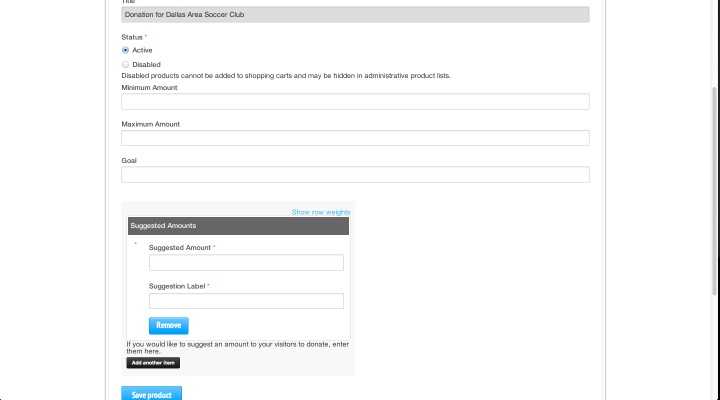
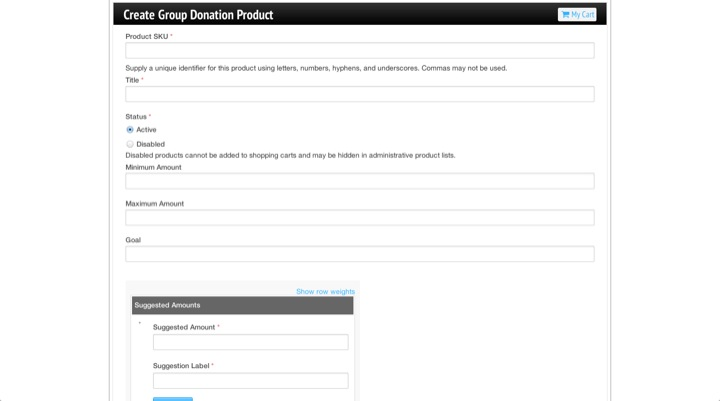
[#73992352] Updates the 1-group-admin-guide/06-accept-donations.html page on the knowledge base.

diff --git a/knowledge-base/group-admin-knowledge/pages/1-group-admin-guide/06-accept-donations.html b/knowledge-base/group-admin-knowledge/pages/1-group-admin-guide/06-accept-donations.html
@@ -87,31 +87,43 @@ user_help_videos: [admin_user_videos]
   <br />
   <div class="row">
     <div class="six columns">
-      <p>Click the <strong>Settings</strong> tab.</p>
+      <p>Click the <strong>Products</strong> tab.</p>
     </div>
     <div class="six columns">
-      <img class="kbImage" src="images/knowledge/admin_guide-donation-navigate_store_settings_tab.jpg">
+      <img class="kbImage" src="images/knowledge/admin_guide-donation-navigate_store_products_tab.jpg">
       <div class="kbImageLarge">
-        <img src="images/knowledge/admin_guide-donation-navigate_store_settings_tab-large.jpg">
+        <img src="images/knowledge/admin_guide-donation-navigate_store_products_tab-large.jpg">
       </div>
     </div>
   </div>
   <br />
   <div class="row">
     <div class="six columns">
-      <p>Click <strong>Configure Donations</strong>.</p>
+      <p>Click <strong>Add Product</strong>.</p>
     </div>
     <div class="six columns">
-      <img class="kbImage" src="images/knowledge/admin_guide-donation-navigate_store_configure_donations.jpg">
+      <img class="kbImage" src="images/knowledge/admin_guide-donation-navigate_store_add_product.jpg">
       <div class="kbImageLarge">
-        <img src="images/knowledge/admin_guide-donation-navigate_store_configure_donations-large.jpg">
+        <img src="images/knowledge/admin_guide-donation-navigate_store_add_product-large.jpg">
       </div>
     </div>
   </div>
   <br />
   <div class="row">
     <div class="six columns">
-      <p>Complete the <strong>Minimum Amount</strong>, <strong>Maximum Amount</strong>, <strong>Goal</strong>, <strong>Suggested Amount</strong>, and <strong>Suggestion Label</strong> fields.</p>
+      <p>Click <strong>Donation</strong>.</p>
+    </div>
+    <div class="six columns">
+      <img class="kbImage" src="images/knowledge/admin_guide-donation-navigate_store_donation.jpg">
+      <div class="kbImageLarge">
+        <img src="images/knowledge/admin_guide-donation-navigate_store_donation-large.jpg">
+      </div>
+    </div>
+  </div>
+  <br />
+  <div class="row">
+    <div class="six columns">
+      <p>Complete the <strong>Product SKU</strong>, <strong>Title</strong>, <strong>Minimum Amount</strong>, <strong>Maximum Amount</strong>, <strong>Goal</strong>, <strong>Suggested Amount</strong>, and <strong>Suggestion Label</strong> fields.</p>
     </div>
     <div class="six columns">
       <img class="kbImage" src="images/knowledge/admin_guide-donation-navigate_store_configure_donations-complete_form.jpg">
